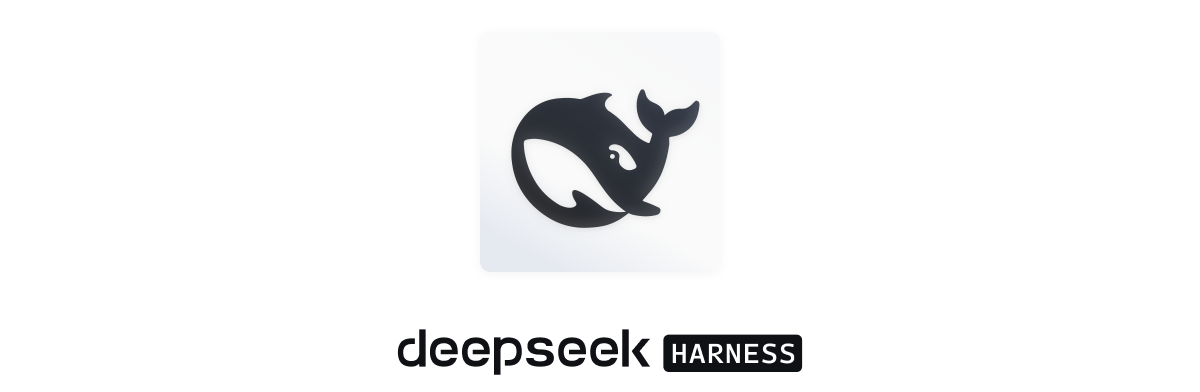
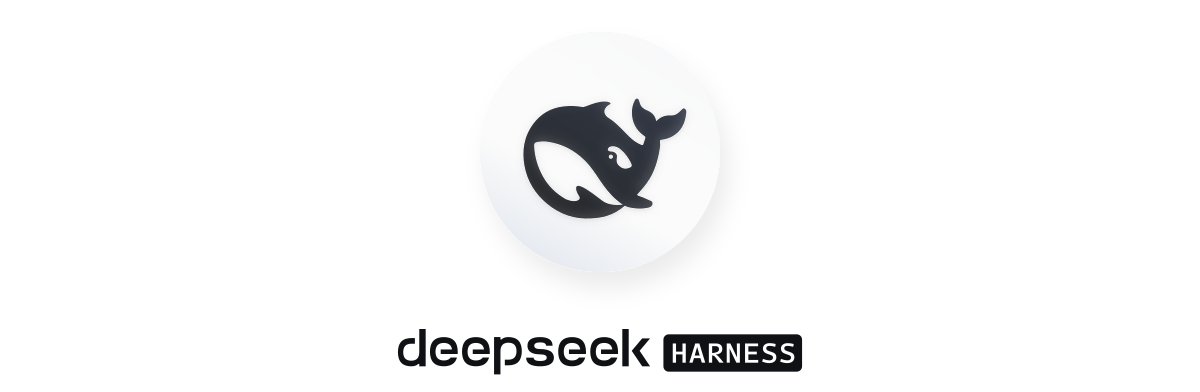
fix(desktop): sharpen installer brand art and progress-page scaling
Re-render the four installer brand banners from the vector sources:
the badge follows the Figma spec (three-stop gradients, layered drop
shadows) and the whale no longer inherits shape-rendering=crispEdges,
which disabled anti-aliasing and left jagged edges. The wordmark now
reaches its design color instead of a soft #353638.

Draw the progress-page brand with high-quality bicubic interpolation
and half-pixel offset so the always-2x bitmap stays crisp when scaled
down at 96 DPI.

diff --git a/apps/desktop/installer/window-frame.cpp b/apps/desktop/installer/window-frame.cpp
@@ -108,6 +108,8 @@ static LRESULT CALLBACK ProgressProc(HWND window, UINT message, WPARAM wparam, L
             graphics.ScaleTransform(page->dpi / 96.0f, page->dpi / 96.0f);
             graphics.Clear(page->dark ? Color(255, 21, 21, 23) : Color(255, 255, 255, 255));
             graphics.SetSmoothingMode(SmoothingModeAntiAlias);
+            graphics.SetInterpolationMode(InterpolationModeHighQualityBicubic);
+            graphics.SetPixelOffsetMode(PixelOffsetModeHalf);
             graphics.DrawImage(page->brand, Rect(0, 174, 600, 196));
             const int stage = static_cast<int>(reinterpret_cast<INT_PTR>(GetPropW(GetParent(window), L"HarnessInstaller.Stage")));
             const double fraction = reinterpret_cast<UINT_PTR>(GetPropW(GetParent(window), L"HarnessInstaller.ExtractProgress")) / 100.0;
